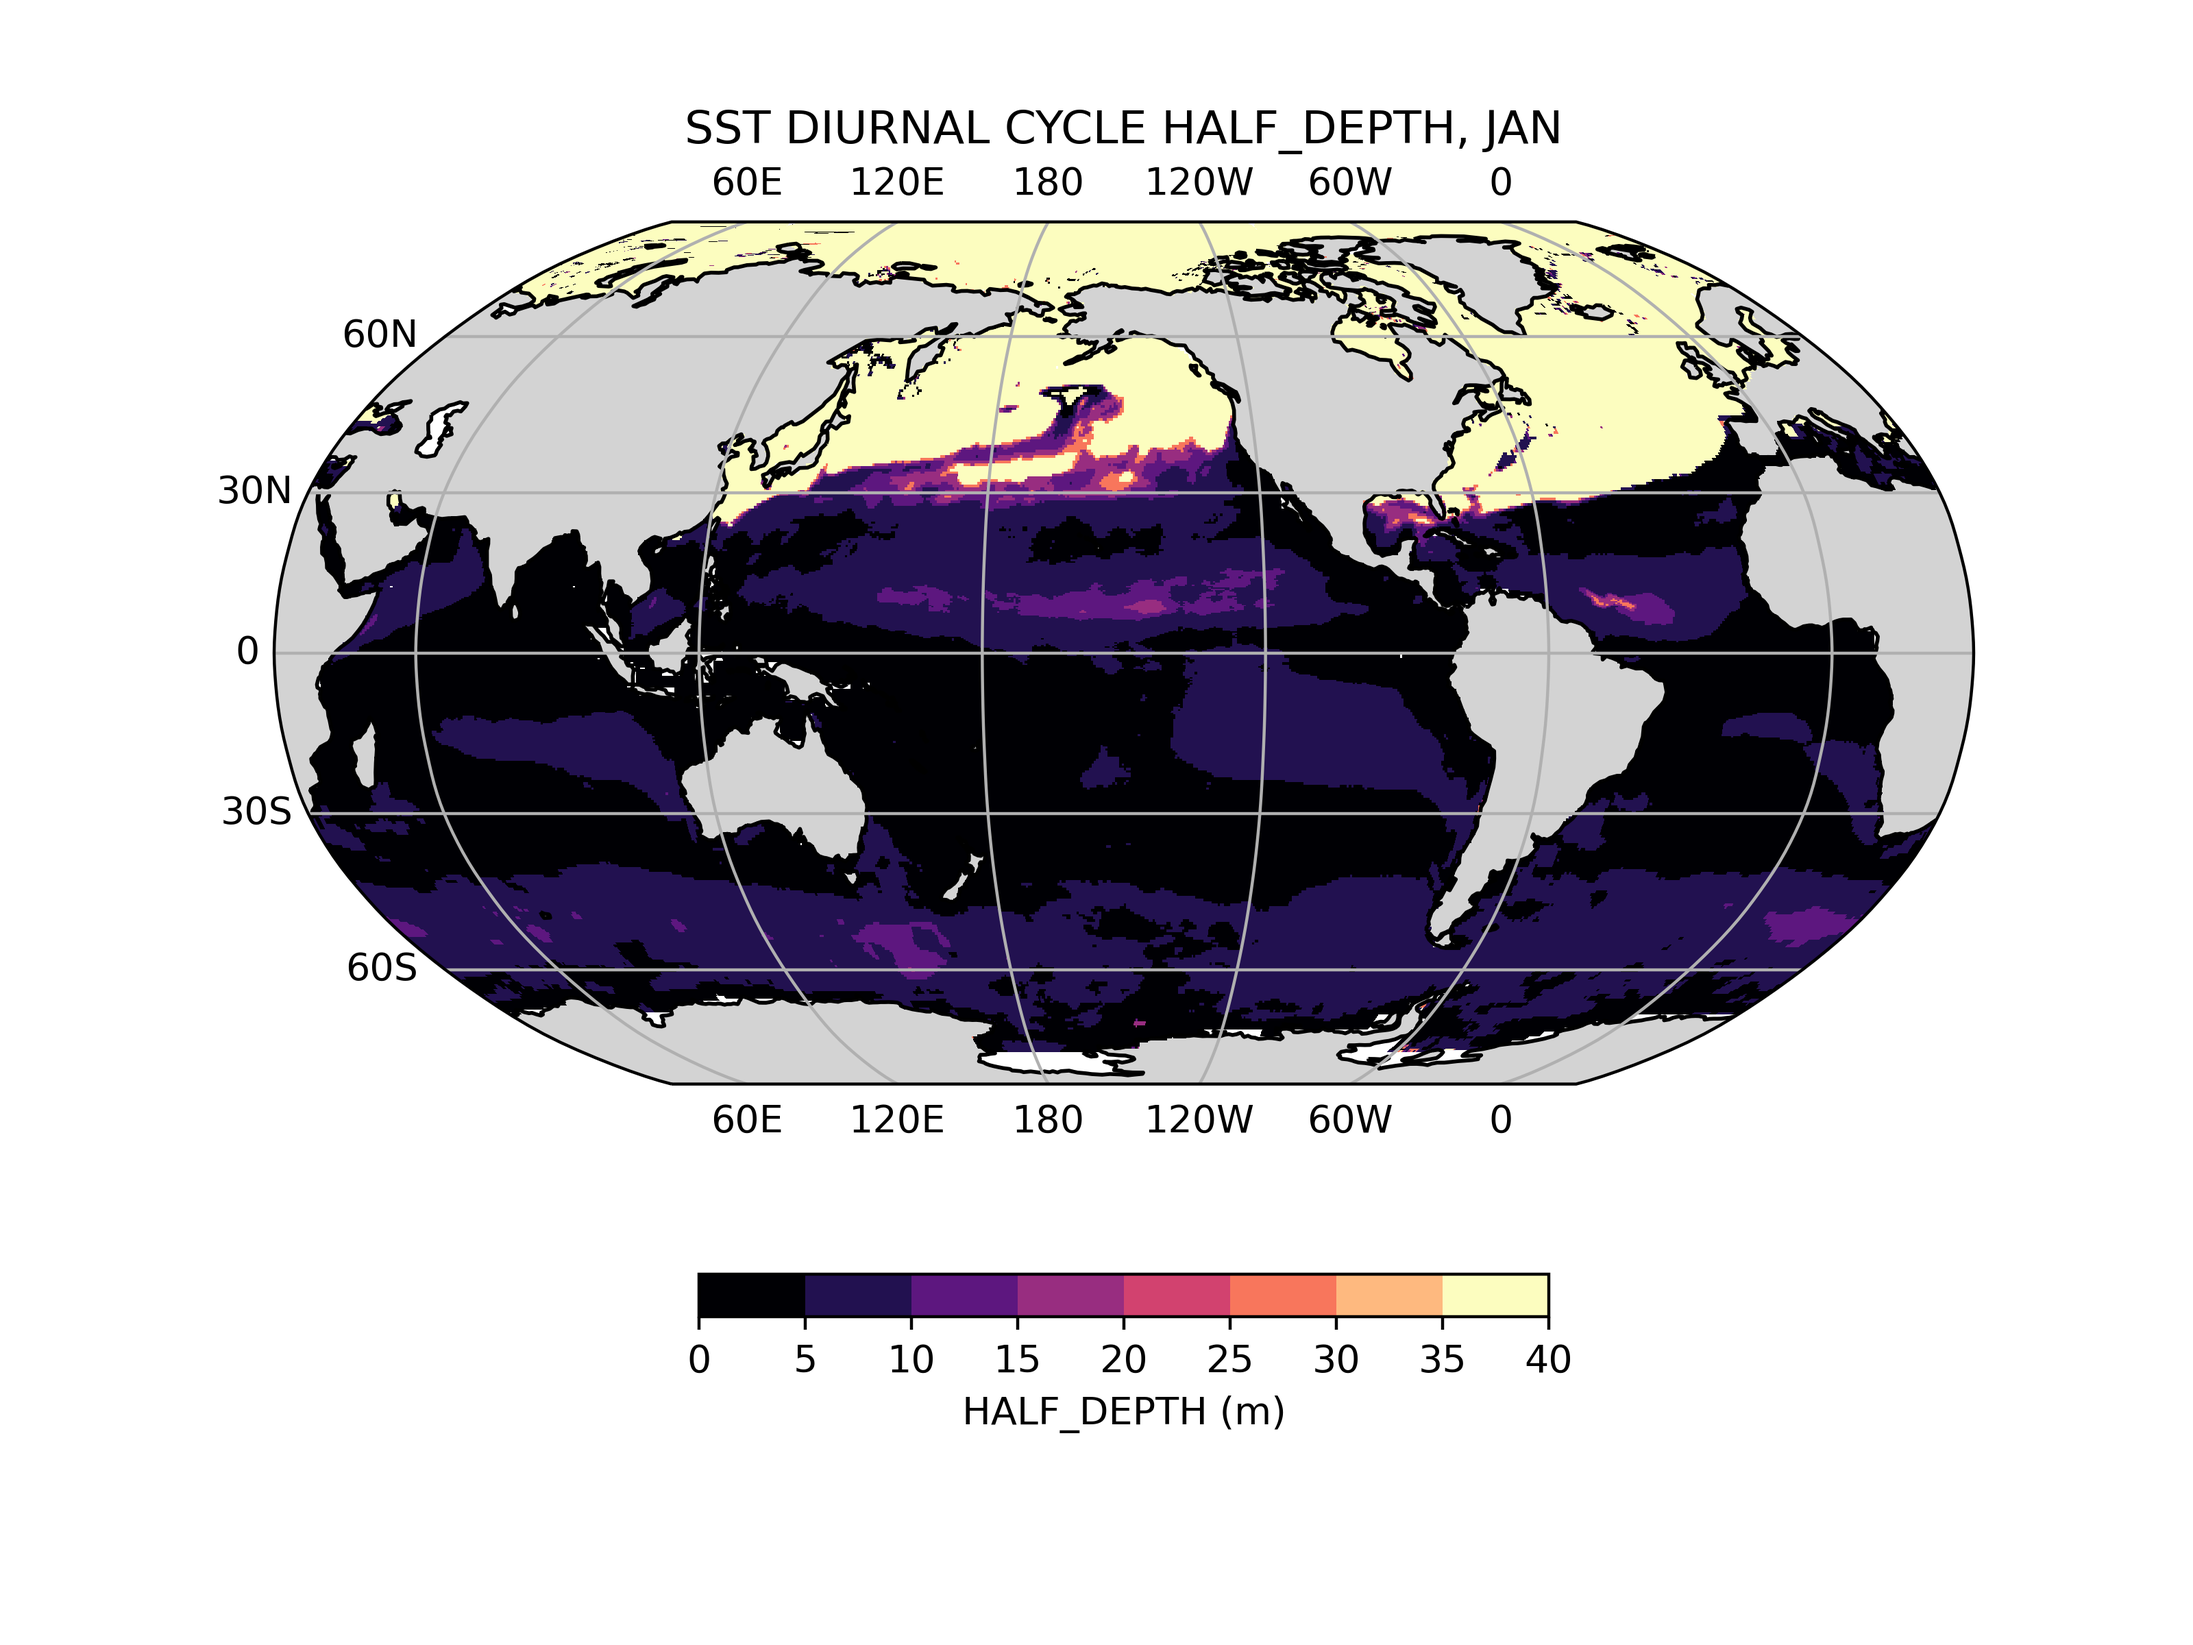
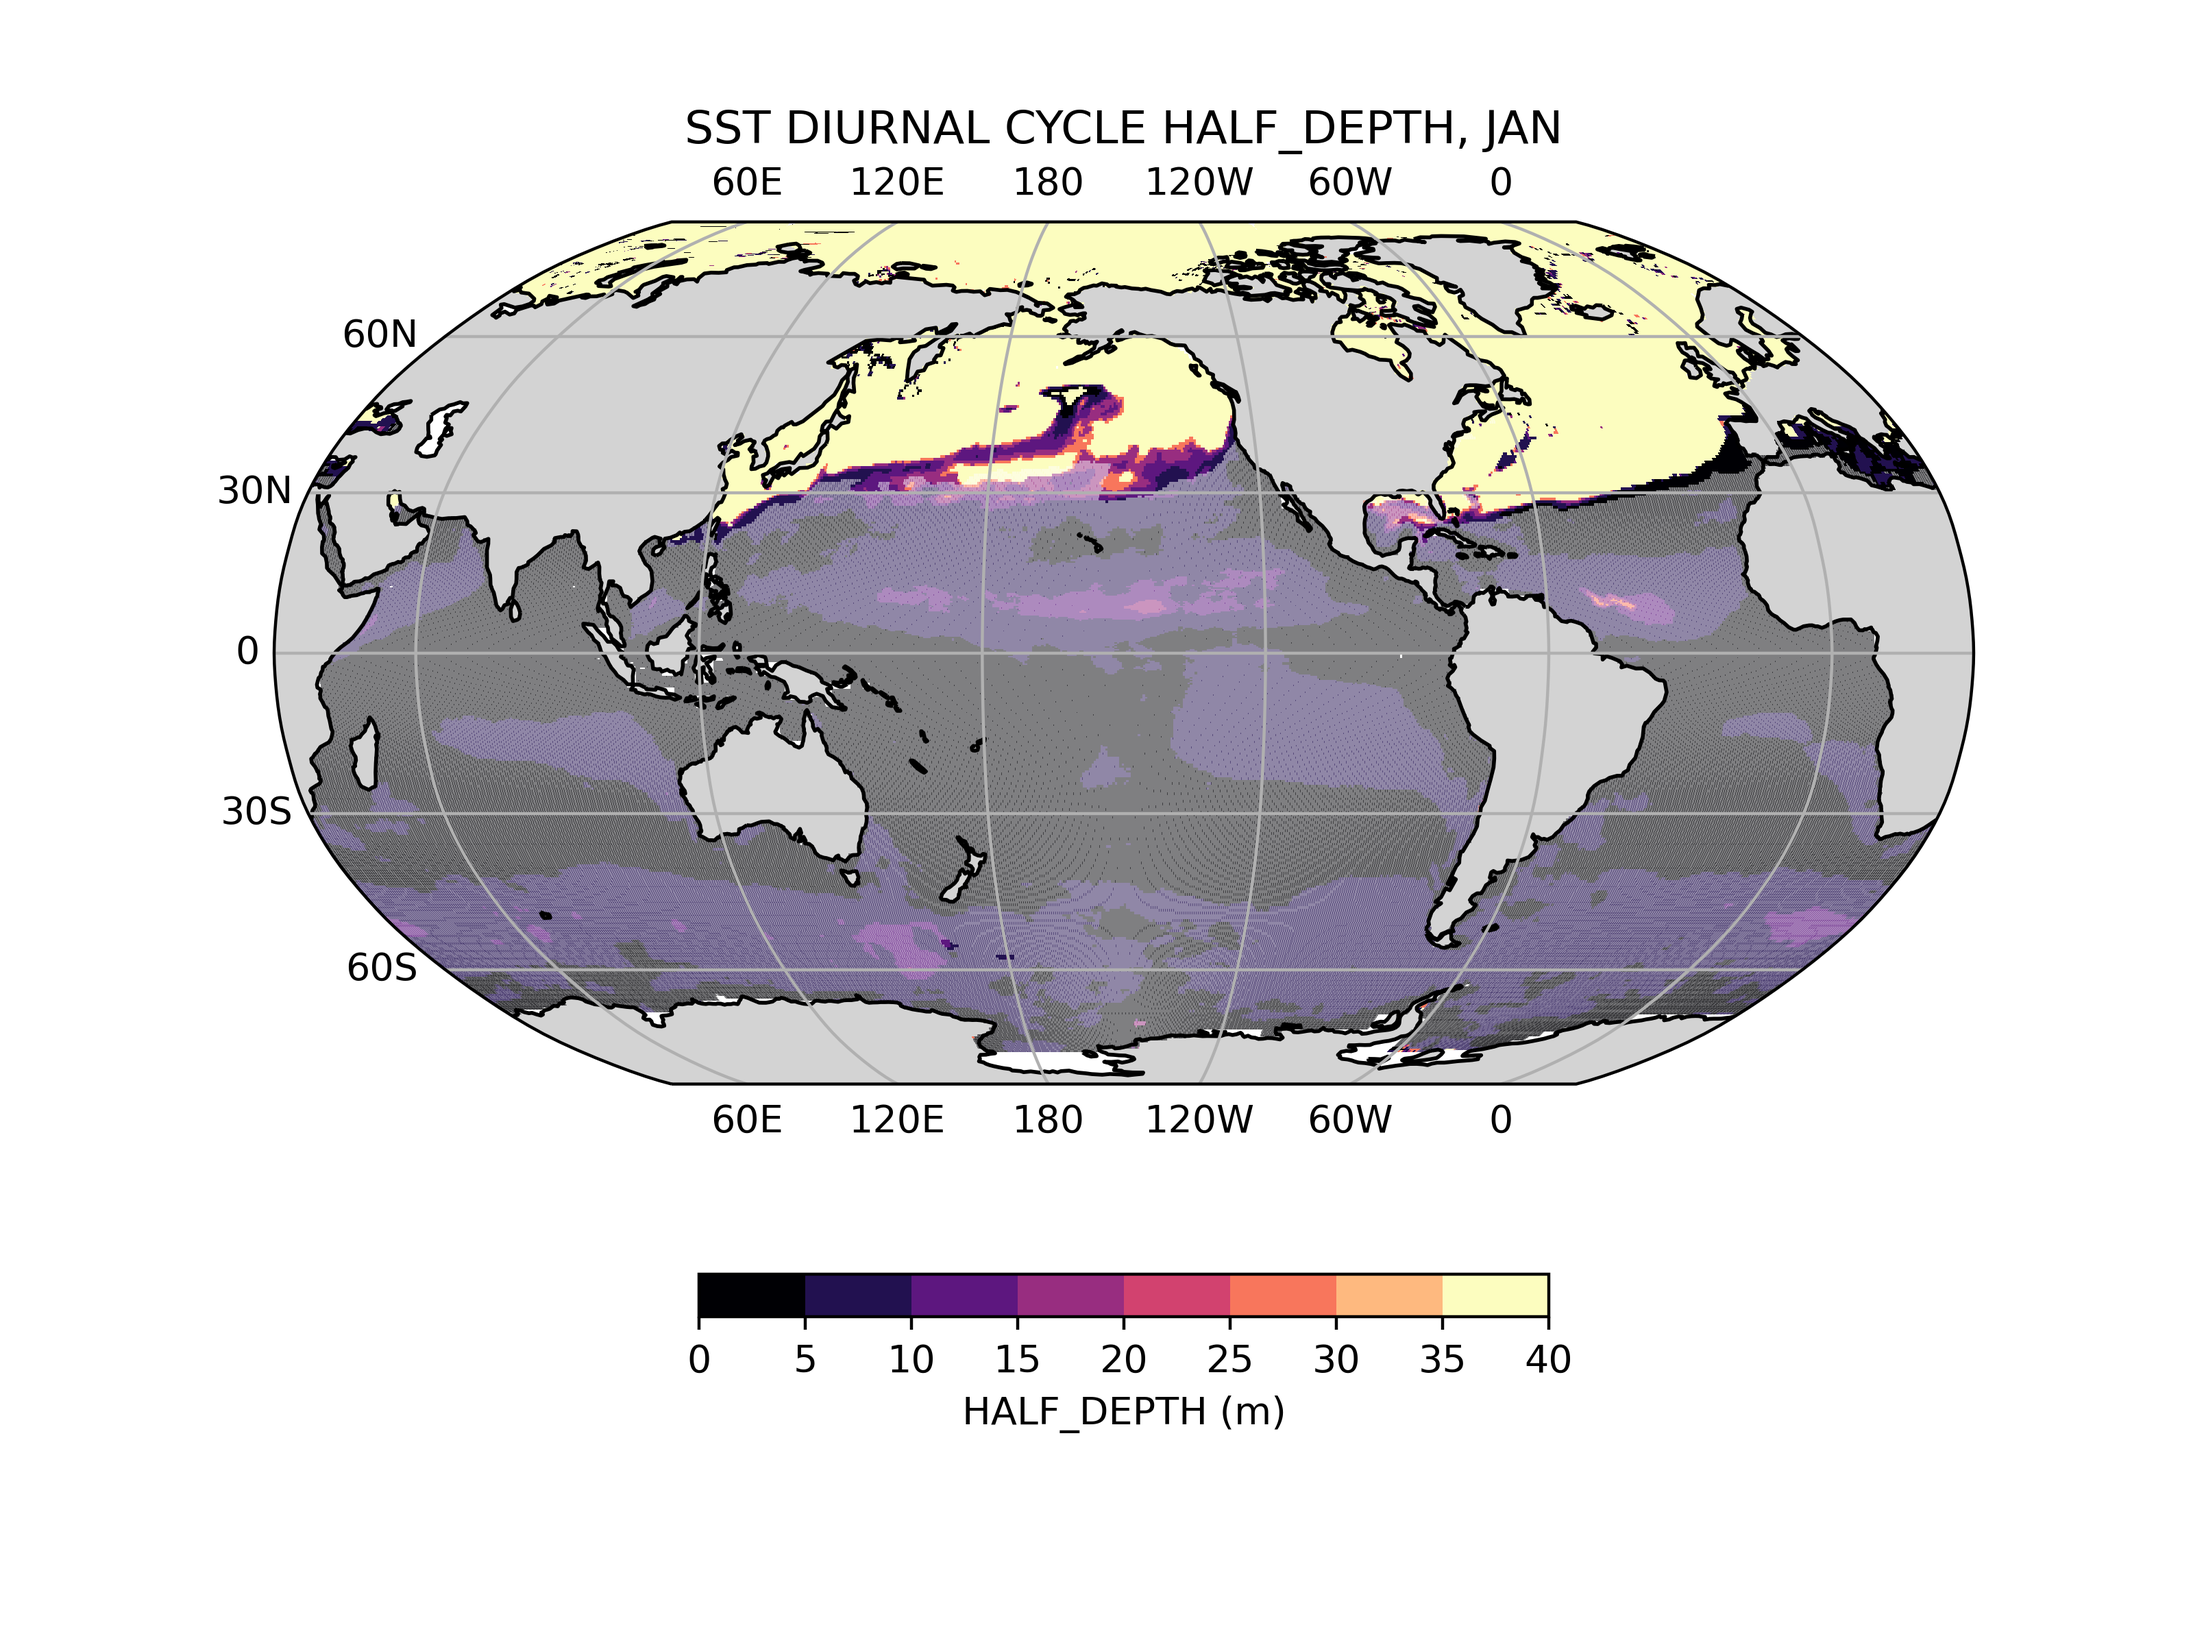
Implements masking by diurnal temperature range.

Changed region(s): [[0.125, 0.2812, 0.875, 0.6562], [0.125, 0.3125, 0.1562, 0.3438]]

diff --git a/diurnal_cycle/analysis/diurnal_range_maps.py b/diurnal_cycle/analysis/diurnal_range_maps.py
@@ -188,7 +188,7 @@ def main(plot_month, plot_var, plot_type):
 def plot_one_map(ds, ptype, pvar, mon):
     
     # Define whether and where to mask fields according to diurnal range.
-    range_mask = 0.0
+    range_mask = 0.1
     
     # Set up figure and axes.
     fig = plt.figure(figsize=(8, 6))
